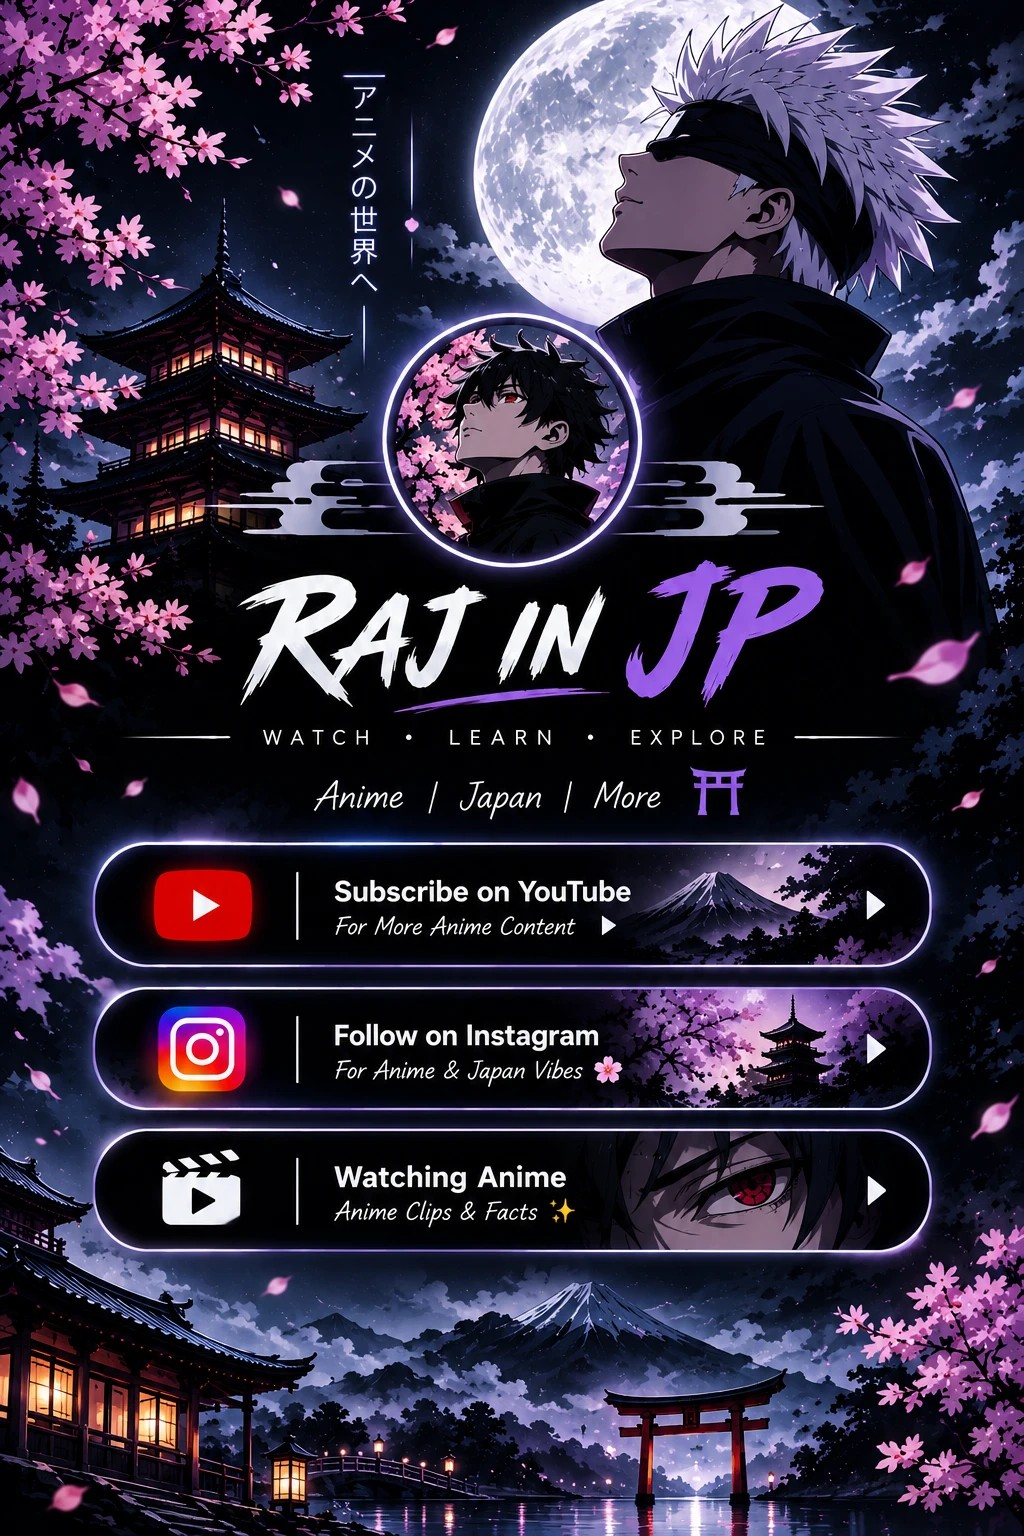
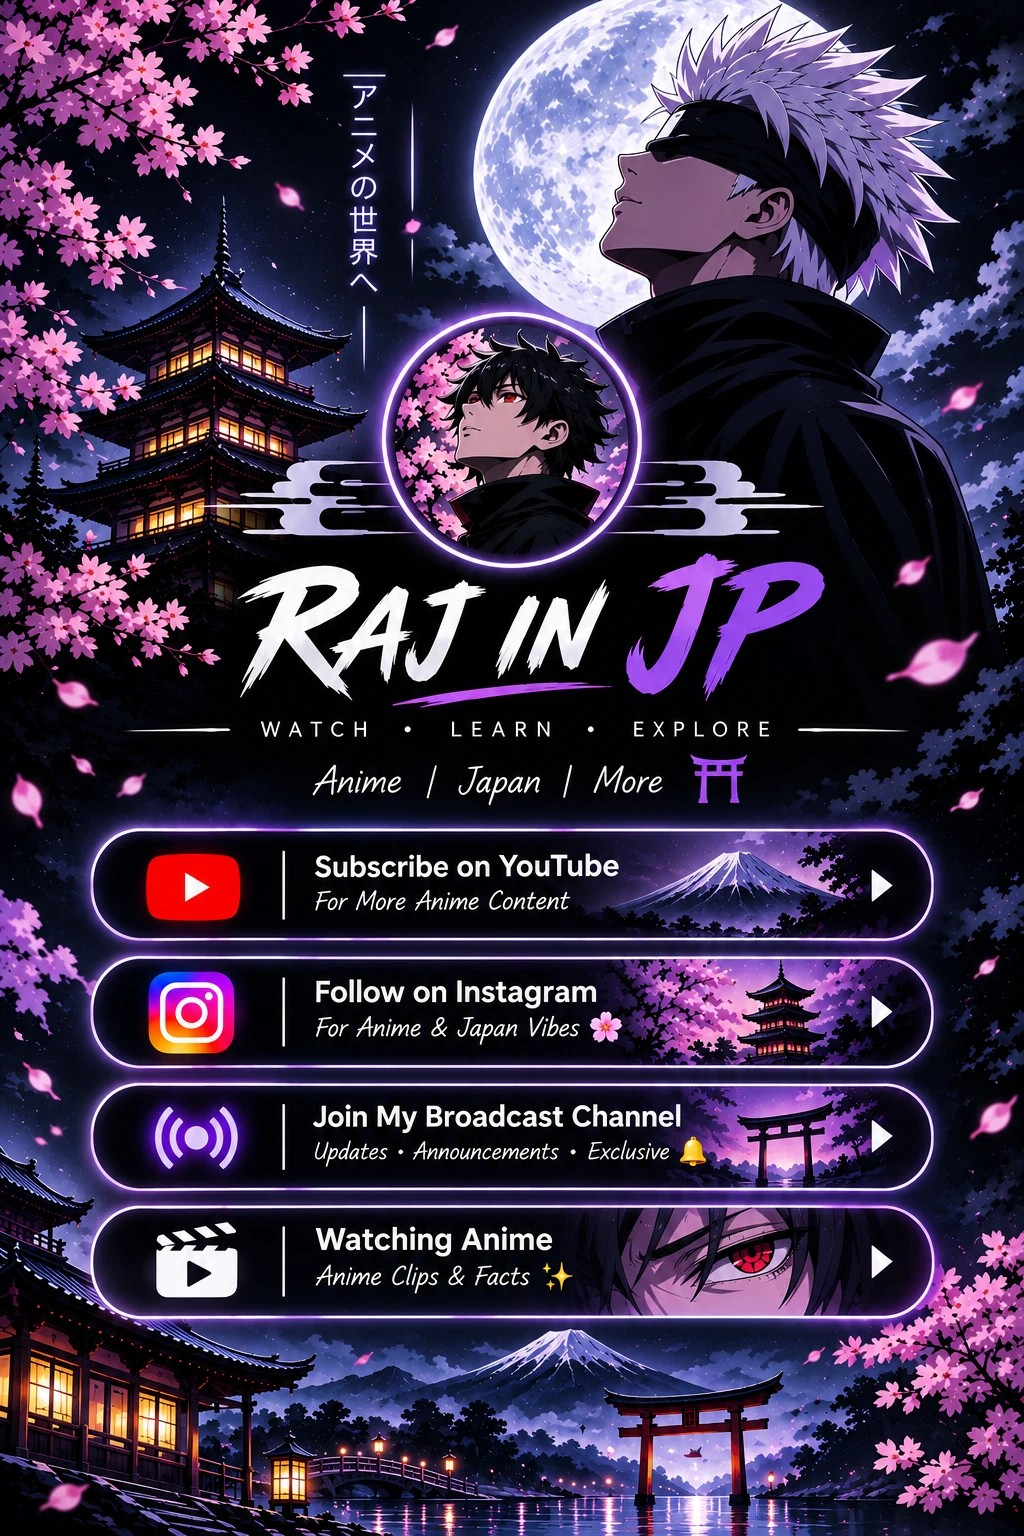
New art with broadcast channel button; full-screen phone layout
Claude-Session: https://claude.ai/code/session_01EaoD2wvxu4LumZTEG2MiNf

diff --git a/index.html b/index.html
@@ -7,8 +7,10 @@
 <meta name="description" content="Raj in JP: watch, learn, explore. Anime, Japan and more." />
 <meta property="og:title" content="Raj in JP" />
 <meta property="og:description" content="Watch · Learn · Explore: Anime, Japan and more." />
-<meta property="og:image" content="rajinjp.jpg" />
+<meta property="og:image" content="https://raj-in-jp.github.io/rajinjp.jpg" />
 <meta name="theme-color" content="#07050f" />
+<link rel="preload" as="image" href="rajinjp-mobile.jpg" media="(max-width: 768px) and (orientation: portrait)" />
+<link rel="preload" as="image" href="rajinjp.jpg" media="not all and (max-width: 768px) and (orientation: portrait)" />
 <style>
   * { box-sizing: border-box; margin: 0; }
   html, body { min-height: 100%; }
@@ -17,7 +19,8 @@
     display: flex; justify-content: center; align-items: center;
     min-height: 100svh; overflow-x: hidden;
   }
-  /* on wide screens, a blurred copy of the art fills the sides */
+
+  /* ---------- DESKTOP / TABLET: the art as a glowing card, blurred art behind ---------- */
   body::before {
     content: ""; position: fixed; inset: -40px; z-index: 0;
     background: url("rajinjp.jpg") center / cover no-repeat;
@@ -25,16 +28,40 @@
   }
   .card {
     position: relative; z-index: 1;
-    width: 100%; max-width: 520px;
+    width: min(520px, 100vw, calc(100svh * 1024 / 1536));
     aspect-ratio: 1024 / 1536;
     background: url("rajinjp.jpg") center / 100% 100% no-repeat;
     box-shadow: 0 0 80px rgba(155, 92, 255, .35);
+    border-radius: 18px; overflow: hidden;
   }
+  /* button positions in the 1024x1536 art */
+  .hit { top: var(--t); height: var(--h); }
+  .yt { --t: 54.04%; --tm: 50.63%; --h: 7.16%; --hm: 4.93%; }
+  .ig { --t: 62.30%; --tm: 56.32%; --h: 7.16%; --hm: 4.93%; }
+  .bc { --t: 70.57%; --tm: 62.01%; --h: 6.90%; --hm: 4.75%; }
+  .an { --t: 78.58%; --tm: 67.52%; --h: 7.23%; --hm: 4.97%; }
+
+  /* ---------- PHONE: full screen, using the extended tall art (1024x2232) ---------- */
+  @media (max-width: 768px) and (orientation: portrait) {
+    body { overflow: hidden; height: 100svh; }
+    body::before { display: none; }
+    .card {
+      position: fixed; left: 50%; top: 50%; transform: translate(-50%, -50%);
+      /* cover the whole screen without stretching */
+      width: max(100vw, calc(100svh * 1024 / 2232));
+      height: max(100svh, calc(100vw * 2232 / 1024));
+      aspect-ratio: auto;
+      background-image: url("rajinjp-mobile.jpg");
+      border-radius: 0; box-shadow: none;
+    }
+    .hit { top: var(--tm); height: var(--hm); }
+  }
+
   #sakura { position: absolute; inset: 0; width: 100%; height: 100%; pointer-events: none; }
 
-  /* clickable areas placed exactly over the buttons in the art */
+  /* clickable areas over the buttons in the art */
   .hit {
-    position: absolute; left: 9.2%; width: 81.8%; height: 7.9%;
+    position: absolute; left: 8.98%; width: 82.03%;
     border-radius: 999px;
     transition: box-shadow .25s ease, transform .15s ease, background .25s ease;
     -webkit-tap-highlight-color: transparent;
@@ -45,10 +72,6 @@
     outline: none;
   }
   .hit:active { transform: scale(.97); }
-  .yt { top: 55.0%; }
-  .ig { top: 64.4%; }
-  .an { top: 73.6%; }
-  /* a soft pulse so people know the buttons are tappable */
   .yt { animation: pulse 2.8s ease-in-out infinite; }
   @keyframes pulse {
     0%, 100% { box-shadow: 0 0 0 0 rgba(155, 92, 255, 0); }
@@ -66,7 +89,8 @@
   <!-- ✏ EDIT YOUR LINKS HERE -->
   <a class="hit yt" href="https://www.youtube.com/@raj_in_jp" target="_blank" rel="noopener" aria-label="Subscribe on YouTube"></a>
   <a class="hit ig" href="https://www.instagram.com/raj_in_jp" target="_blank" rel="noopener" aria-label="Follow on Instagram"></a>
-  <a class="hit an" href="https://www.instagram.com/channel/-rm9e7hU3mzTN27F/" target="_blank" rel="noopener" aria-label="Watching Anime: anime clips and facts"></a>
+  <a class="hit bc" href="https://www.instagram.com/channel/-rm9e7hU3mzTN27F/" target="_blank" rel="noopener" aria-label="Join my broadcast channel"></a>
+  <a class="hit an" href="https://www.youtube.com/@raj_in_jp/shorts" target="_blank" rel="noopener" aria-label="Watching Anime: anime clips and facts"></a>
 </main>
 
 <script>
@@ -86,7 +110,7 @@
     vy: rnd(.35, .9) * dpr, vx: rnd(-.2, .5) * dpr, r: rnd(0, 6.28), vr: rnd(-.03, .03),
     sw: rnd(0, 6.28), col: Math.random() < .5 ? '255,150,205' : '255,200,230'
   });
-  const P = Array.from({ length: 22 }, () => make(false));
+  const P = Array.from({ length: 24 }, () => make(false));
   (function tick() {
     x.clearRect(0, 0, W, H);
     for (const p of P) {
